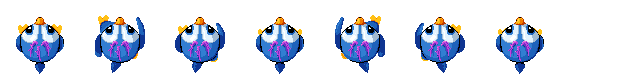
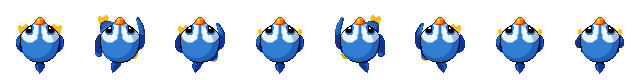
hug

diff --git a/hugs.js b/hugs.js
@@ -137,6 +137,7 @@ function initialize(){
 	player.setImage('./assets/penguin.png', 80, 80);
 	var walkAnim = jsGame.Animation.Strip([1, 2, 3, 4, 5, 6], 80, 80, 7.0);
 	var idleAnim = jsGame.Animation.Strip([0], 80, 80, 1.0);
+	var hugAnim = jsGame.Animation.Strip([7], 80, 80, 1.0);
 	player.playAnimation(walkAnim);
     game.add(player);
     
@@ -184,7 +185,14 @@ function initialize(){
 		    player.playAnimation(walkAnim);
 		}
 		else{
-		    player.playAnimation(idleAnim);
+            if(player.hugging)
+            {
+                player.playAnimation(hugAnim);
+            }
+            else
+            {
+		      player.playAnimation(idleAnim);
+            }
 		}
 
         if(justClicked && !player.hugging)
@@ -218,6 +226,46 @@ function initialize(){
 	    });
 
 	player.render = function(context, camera){
+
+        context.lineCap = 'round';
+
+        context.beginPath();
+        context.strokeStyle = "#0f3591";
+        context.lineWidth = 6;
+        context.moveTo(player.hugarms.left[0].x + player.x,player.hugarms.left[0].y + player.y);
+        context.lineTo(player.hugarms.left[1].x + player.x,player.hugarms.left[1].y + player.y);
+        context.moveTo(player.hugarms.left[1].x + player.x,player.hugarms.left[1].y + player.y);
+        context.lineTo(player.hugarms.left[0].x*0.8 + player.x,player.hugarms.left[0].y*0.8 + player.y);
+        context.stroke();
+        context.closePath();
+
+        context.beginPath();
+        context.strokeStyle = "#1e62ba";
+        context.lineWidth = 6;
+        context.moveTo(player.hugarms.left[1].x + player.x - 1,player.hugarms.left[1].y + player.y - 3);
+        context.lineTo(player.hugarms.left[0].x*0.7 + player.x - 1,player.hugarms.left[0].y*0.7 + player.y - 3);
+        context.stroke();
+        context.closePath();
+
+
+        context.beginPath();
+        context.strokeStyle = "#0f3591";
+        context.lineWidth = 6;
+        context.moveTo(player.hugarms.right[0].x + player.x,player.hugarms.right[0].y + player.y);
+        context.lineTo(player.hugarms.right[1].x + player.x,player.hugarms.right[1].y + player.y);
+        context.moveTo(player.hugarms.right[1].x + player.x,player.hugarms.right[1].y + player.y);
+        context.lineTo(player.hugarms.right[0].x*0.8 + player.x,player.hugarms.right[0].y*0.8 + player.y);
+        context.stroke();
+        context.closePath();
+
+        context.beginPath();
+        context.strokeStyle = "#1e62ba";
+        context.lineWidth = 6;
+        context.moveTo(player.hugarms.right[1].x + player.x - 1,player.hugarms.right[1].y + player.y - 3);
+        context.lineTo(player.hugarms.right[0].x*0.7 + player.x - 1,player.hugarms.right[0].y*0.7 + player.y - 3);
+        context.stroke();
+        context.closePath();
+
         context.fillStyle = "rgba(0,0,0,0.2)";
         context.beginPath();
         context.arc(player.x + 5, player.y + 7, 25, 0, Math.PI*2, true);
@@ -238,21 +286,12 @@ function initialize(){
 				      player.height);
 			context.restore();
 		}
+		
+
 	};
     proj = {x:0, y:0};
 	game.render = jsGame.extend(game.render, function(context, camera){
-        game._context.strokeStyle = "#1e62ba";
-        game._context.lineWidth = 9;
-        game._context.beginPath();
-        game._context.moveTo(player.hugarms.left[0].x + player.x,player.hugarms.left[0].y + player.y);
-        game._context.lineTo(player.hugarms.left[1].x + player.x,player.hugarms.left[1].y + player.y);
-        game._context.closePath();
-        game._context.stroke();
-        game._context.beginPath();
-        game._context.moveTo(player.hugarms.right[0].x + player.x,player.hugarms.right[0].y + player.y);
-        game._context.lineTo(player.hugarms.right[1].x + player.x,player.hugarms.right[1].y + player.y);
-        game._context.closePath();
-        game._context.stroke();
+
     });
     
     game.update = jsGame.extend(game.update, function(){
